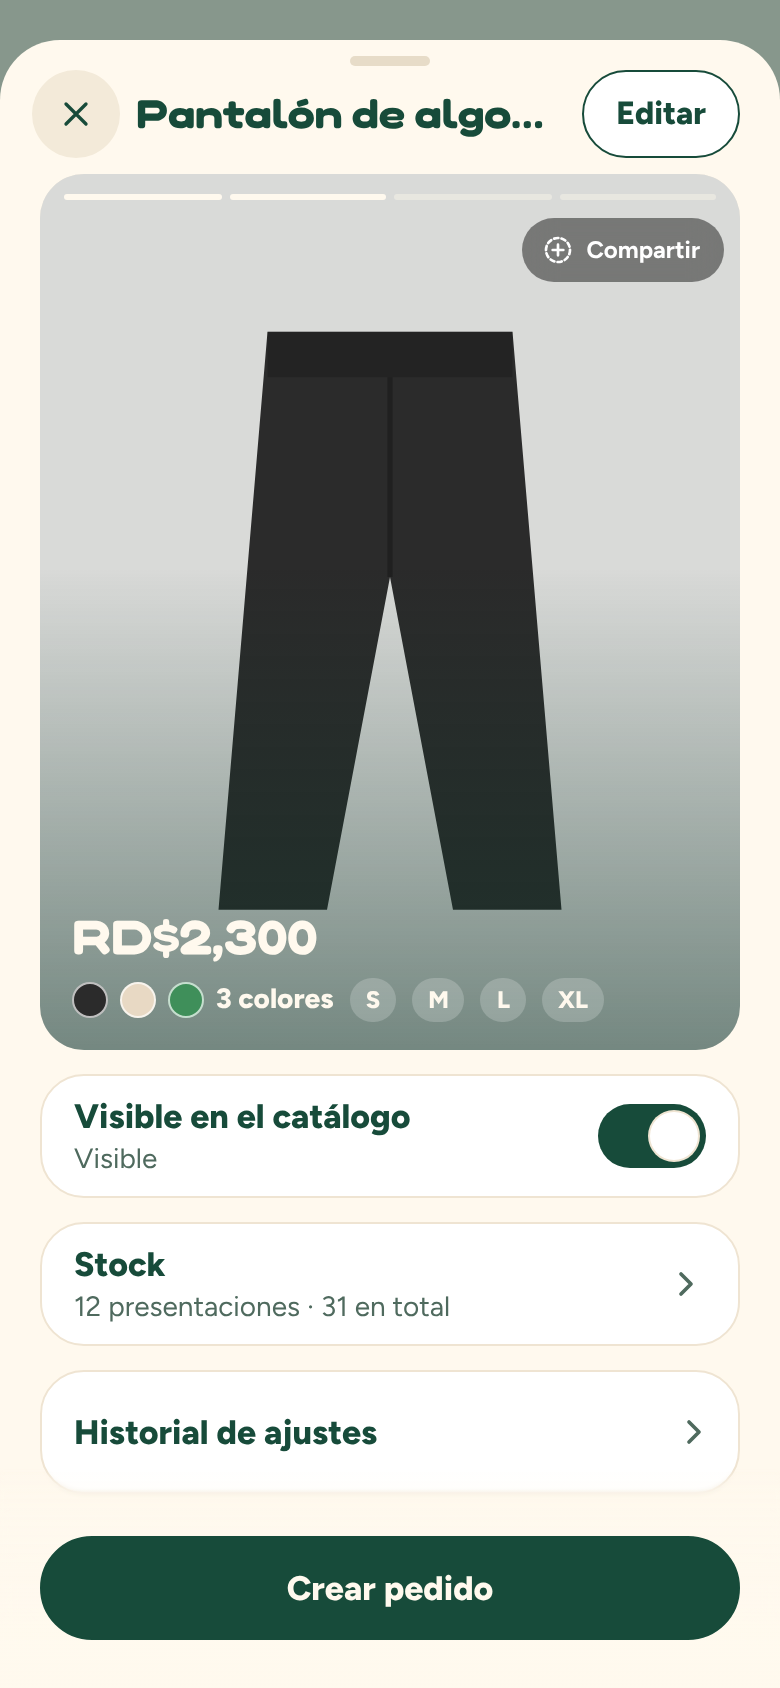
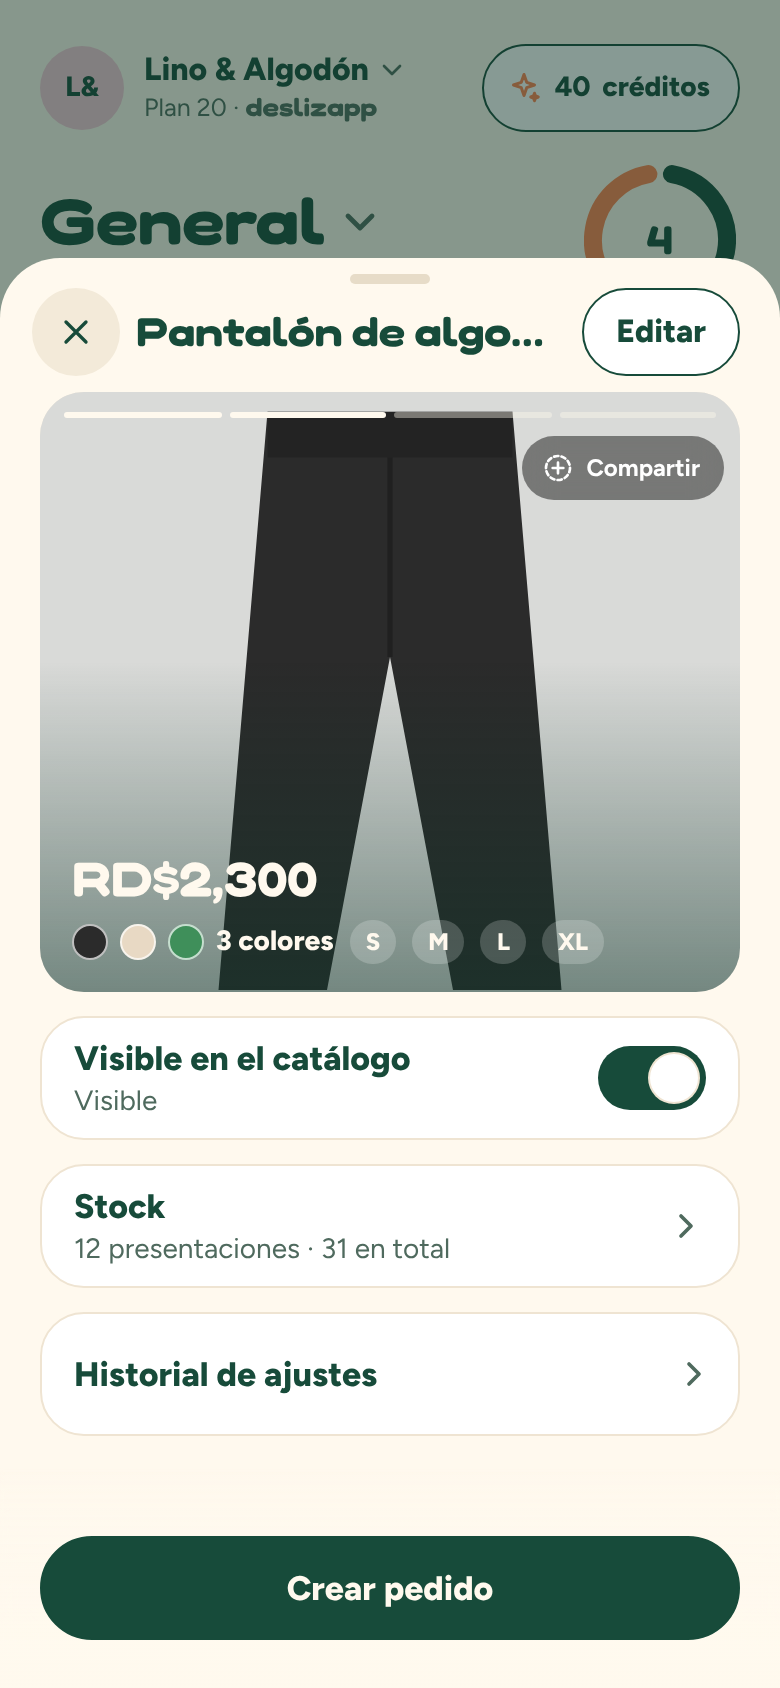
Ver producto: no se cierra mientras guarda, «Descartar» limpia el error y la foto vuelve a 300 px (#126)
* Ver producto: descartar quita el aviso de un ajuste fallido

Revisión de Codex en #125 (cedbb78): tras un ajuste de presentación fallido,
«Descartar» limpia también el error, como ya hace el stock sin presentaciones.

Claude-Session: https://claude.ai/code/session_01MrEaaa6uvSff6aYZRPm6oj

* Ver producto: la vista previa vuelve a 300 px

Lewis cambió de idea: en 4:5 ocupaba demasiado. Revierte 2770dda (la foto, sus
comprobaciones en probar-hoja-producto, docs/04 y las capturas); «Editar»
secundario se queda.

Claude-Session: https://claude.ai/code/session_01MrEaaa6uvSff6aYZRPm6oj

* Ver producto: no se cierra mientras se guarda el stock

Hallazgo de Codex en #125 (46266c2), aprobado por Lewis: nueva prop opt-in
bloquearCierre en Hoja (y useBloquearCierre para el contenido). Mientras se
guarda el stock, Ver producto y sus hojas de motivo no se cierran ni preguntan
con la ✕, el atrás, el fondo, deslizar ni Escape; al deslizar, la hoja rebota.
Documentado en docs/09 §9 y docs/04.

Claude-Session: https://claude.ai/code/session_01MrEaaa6uvSff6aYZRPm6oj

---------

diff --git a/components/hoja.tsx b/components/hoja.tsx
@@ -110,7 +110,7 @@ function liberarFondo() {
 /** Marca de la entrada de historial de una hoja apilada. Conserva el estado de Next (`__NA`…) para no confundir al router. */
 const estadoDeHoja = () => ({ ...(window.history.state ?? {}), deslizappHoja: true });
 
-type Ranuras = { arriba: HTMLDivElement | null; abajo: HTMLDivElement | null; irArriba: () => void; avisar: (cambios: boolean, textos?: TextosAviso) => void; confirmarSalida: (accion: () => void) => void };
+type Ranuras = { arriba: HTMLDivElement | null; abajo: HTMLDivElement | null; irArriba: () => void; avisar: (cambios: boolean, textos?: TextosAviso) => void; bloquear: (bloqueada: boolean) => void; confirmarSalida: (accion: () => void) => void };
 /** Textos del aviso que puede poner el contenido de la hoja (lo que solo él sabe: cuántas fotos o presentaciones se pierden). */
 export type TextosAviso = { titulo?: string; texto?: string };
 const ContextoHoja = createContext<Ranuras | null>(null);
@@ -162,6 +162,18 @@ export function useAvisarAlSalir(cambios: boolean, textos?: TextosAviso) {
     avisar?.(cambios, { titulo, texto });
     return () => avisar?.(false);
   }, [avisar, cambios, titulo, texto]);
+}
+
+/**
+ * El contenido de una hoja impide cerrarla mientras `bloqueada` sea true (ej. mientras se guarda): ✕, atrás, fondo, deslizar y
+ * Escape no cierran ni preguntan; al deslizar, la hoja rebota a su lugar. Opt-in, como `bloquearCierre`.
+ */
+export function useBloquearCierre(bloqueada: boolean) {
+  const bloquear = useContext(ContextoHoja)?.bloquear;
+  useEffect(() => {
+    bloquear?.(bloqueada);
+    return () => bloquear?.(false);
+  }, [bloquear, bloqueada]);
 }
 
 /** Reutiliza el aviso de cambios sin guardar antes de salir hacia otro formulario. */
@@ -221,6 +233,8 @@ type Props = {
   decoracionEncima?: ReactNode;
   /** Hay cambios sin guardar: cerrar pide confirmación (ver el comentario de arriba). También se puede avisar con `useAvisarAlSalir`. */
   avisarAlSalir?: boolean;
+  /** Mientras sea true, la hoja no se cierra (ni pregunta): ✕, atrás, fondo, deslizar y Escape no hacen nada. También con `useBloquearCierre`. */
+  bloquearCierre?: boolean;
   /** Hojas de ruta que consumen su entrada antes de navegar mediante alSalir. */
   protegerAtras?: boolean;
   /** Regresa a una vista interna sin cerrar ni descartar el borrador; true consume Atrás. */
@@ -315,6 +329,7 @@ function HojaMontada({
   decoracionAbajo,
   decoracionEncima,
   avisarAlSalir = false,
+  bloquearCierre = false,
   protegerAtras = false,
   alVolverInterno,
   avisoTitulo = "¿Salir sin guardar?",
@@ -347,6 +362,15 @@ function HojaMontada({
   const avisar = useCallback((cambios: boolean, textos?: TextosAviso) => {
     avisoDeHijo.current = cambios;
     textosDeHijo.current = cambios ? (textos ?? {}) : {};
+  }, []);
+  // Cierre bloqueado (ej. mientras se guarda): lo pide la prop o el contenido (`useBloquearCierre`); se lee al cerrar.
+  const bloqueoDeProp = useRef(bloquearCierre);
+  const bloqueoDeHijo = useRef(false);
+  useEffect(() => {
+    bloqueoDeProp.current = bloquearCierre;
+  }, [bloquearCierre]);
+  const bloquear = useCallback((bloqueada: boolean) => {
+    bloqueoDeHijo.current = bloqueada;
   }, []);
   const miTurno = useRef(Symbol("hoja"));
   const entradaDeHistorial = useRef(false);
@@ -499,6 +523,11 @@ function HojaMontada({
       rebotar();
       return false;
     }
+    // Cierre bloqueado (se está guardando): no cierra ni pregunta; si se llegó deslizando, vuelve a su lugar.
+    if (bloqueoDeProp.current || bloqueoDeHijo.current) {
+      rebotar();
+      return false;
+    }
     accionAlSalir.current = null;
     if (avisoDeProp.current || avisoDeHijo.current) {
       rebotar();
@@ -559,7 +588,7 @@ function HojaMontada({
   const irArriba = useCallback(() => {
     if (contenido.current) contenido.current.scrollTop = 0;
   }, []);
-  const ranuras = useMemo<Ranuras>(() => ({ arriba: ranuraArriba, abajo: ranuraAbajo, irArriba, avisar, confirmarSalida }), [ranuraArriba, ranuraAbajo, irArriba, avisar, confirmarSalida]);
+  const ranuras = useMemo<Ranuras>(() => ({ arriba: ranuraArriba, abajo: ranuraAbajo, irArriba, avisar, bloquear, confirmarSalida }), [ranuraArriba, ranuraAbajo, irArriba, avisar, bloquear, confirmarSalida]);
 
   /** Borde de desplazamiento: invisible arriba del todo, completo a los SCROLL_BORDE px. */
   const alDesplazar = () => {

diff --git a/components/catalogo/hoja-producto.tsx b/components/catalogo/hoja-producto.tsx
@@ -12,7 +12,7 @@ import { textoCombinacion } from "@/lib/presentaciones";
 import type { MotivoAjusteInventario, Producto, Variante } from "@/lib/types";
 import { ListaEsperaProducto } from "./hoja-espera";
 import { Foto } from "../foto";
-import { Hoja, HojaFijoAbajo, PieFlotante, useAvisarAlSalir, useConfirmarSalida } from "../hoja";
+import { Hoja, HojaFijoAbajo, PieFlotante, useAvisarAlSalir, useBloquearCierre, useConfirmarSalida } from "../hoja";
 import { useToast } from "../toast";
 import { usePanelUI } from "../panel/ui";
 import { CuerpoConError, CuerpoCargando } from "../hoja-estado";
@@ -198,7 +198,7 @@ function useStockPresentaciones(producto: Producto) {
       setGuardando(false);
     }
   };
-  return { activas, valor, pendiente: cambiadas.length > 0, bajan, guardando, error, poner: (id: string, n: number) => setPropuesta((p) => ({ ...p, [id]: n })), descartar: () => setPropuesta({}), guardar };
+  return { activas, valor, pendiente: cambiadas.length > 0, bajan, guardando, error, poner: (id: string, n: number) => setPropuesta((p) => ({ ...p, [id]: n })), descartar: () => { setPropuesta({}); setError(null); }, guardar };
 }
 
 function ContenidoVistaProducto({ producto, precio, promos, productos, cargandoProductos, alNavegar, alVerHistorial, alVerEspera, ranuraEditar, internaAbierta }: {
@@ -238,6 +238,8 @@ function ContenidoVistaProducto({ producto, precio, promos, productos, cargandoP
   const pendiente = inventario.pendiente || variantes.pendiente;
   const guardandoStock = inventario.guardando || variantes.guardando;
   useAvisarAlSalir(pendiente || inventario.incierto);
+  // Mientras se guarda el stock la hoja no se cierra (Lewis, 13 oct): el ajuste en camino entraría después de «descartar».
+  useBloquearCierre(guardandoStock);
   const confirmarSalida = useConfirmarSalida();
   const navegar = (ruta: string) => confirmarSalida(() => alNavegar(ruta));
   // El stock siempre empieza cerrado (Lewis, 13 oct): no se recuerda el último estado.
@@ -399,7 +401,7 @@ function VistaPrevia({ producto, precio, alCompartir }: { producto: Producto; pr
   const otras = producto.opciones.filter((o) => !esEjeColor(o.nombre));
   const conFoto = fotos.length > 0;
   return (
-    <div className="relative aspect-[4/5] w-full shrink-0 overflow-hidden rounded-radio-l bg-superficie-hundida" data-vista-previa-producto="">
+    <div className="relative h-[300px] w-full shrink-0 overflow-hidden rounded-radio-l bg-superficie-hundida" data-vista-previa-producto="">
       {conFoto ? (
         <div
           className="flex size-full snap-x snap-mandatory overflow-x-auto overscroll-x-contain [scrollbar-width:none] [&::-webkit-scrollbar]:hidden"

diff --git a/components/catalogo/inventario-producto.tsx b/components/catalogo/inventario-producto.tsx
@@ -137,7 +137,7 @@ export function useHistorialInventario() {
 
 export function ConfirmacionInventario({ inventario }: { inventario: Borrador }) {
   const i = inventario;
-  return <Hoja abierta={i.confirmar} alCerrar={i.cerrarConfirmacion} alSalir={i.alSalirConfirmacion} titulo="Ajustar inventario" altura="grande">
+  return <Hoja abierta={i.confirmar} alCerrar={i.cerrarConfirmacion} alSalir={i.alSalirConfirmacion} titulo="Ajustar inventario" altura="grande" bloquearCierre={i.guardando}>
     <div className="flex flex-col gap-4 text-bosque">
       <div><h2 className="font-display text-[23px]">¿Por qué baja el stock?</h2><p className="mt-1 text-sm text-suave">Retirarás {(i.base ?? 0) - (i.propuesta ?? 0)} {(i.base ?? 0) - (i.propuesta ?? 0) === 1 ? "unidad" : "unidades"}. Se guardará como ajuste, no como venta.</p></div>
       <GrupoOpciones etiqueta="Motivo del ajuste">{(["dano","perdida","correccion_inventario","otro"] as const).map(m => <Chip key={m} elegido={i.motivo === m} tono="opcion" onClick={() => i.setMotivo(m)}>{MOTIVOS_INVENTARIO[m]}</Chip>)}</GrupoOpciones>

diff --git a/components/catalogo/ficha-presentaciones.tsx b/components/catalogo/ficha-presentaciones.tsx
@@ -32,7 +32,7 @@ export function HojaMotivoVariantes({
   const [nota, setNota] = useState("");
   const listo = motivo !== null && (motivo !== "otro" || nota.trim().length > 0);
   return (
-    <Hoja abierta={abierta} alCerrar={alCerrar} titulo="¿Por qué baja el stock?" altura="grande">
+    <Hoja abierta={abierta} alCerrar={alCerrar} titulo="¿Por qué baja el stock?" altura="grande" bloquearCierre={guardando}>
       <div className="flex flex-col gap-4">
         <p className="text-secundario text-texto-secundario">
           Retirarás {unidades} {unidades === 1 ? "unidad" : "unidades"}. Se guarda como ajuste, no como venta.

diff --git a/docs/04-pantallas.md b/docs/04-pantallas.md
@@ -248,7 +248,7 @@ en el prototipo); precios de producto, cantidades y nombres, en Figtree.
 
 **Acciones:**
 - Tocar "+ Producto" → crear producto (la historia, ver «Crear producto (historia)»).
-- Tocar una tarjeta → **«Ver producto»** (`HojaVistaProducto`, 13 oct 2026, referencia `referencias/editar-producto/Vista-A.dc.html`): altura según su contenido. Cabecera: ✕ a la izquierda, el nombre (elipsis) y **«Editar»** como botón **Secundario** (contorno 1.5 px `accion`, relleno `superficie`, texto `accion`, 44 px; apagado en sólido sin permiso o mientras se guarda el stock; pasa por el aviso de cambios sin guardar y lleva a `/catalogo/[id]/editar`, que sustituye a esta hoja). Vista previa grande en la proporción de los posts del feed del catálogo (**4:5**, a todo el ancho; las fotos en `cover`) con **todas las fotos** (carrusel deslizable con las barras tipo historia; la de la foto que se ve, llena) y, sobre un degradado, el precio (con la promo tachada), «Agotado» y las presentaciones (colores como puntos, tallas como pastillas); sin foto, la inicial. Arriba a la derecha de la foto, bajo las barras, la píldora de vidrio **«Compartir»** abre «Súbelo a tu estado» (`HojaHistoria`). Si hay lista de espera, la franja «N personas lo esperan» (abre la lista como pantalla interna). Debajo: Visible en el catálogo → **Stock plegable** (empieza **siempre cerrado**; abierto, − / + por presentación hasta 3, uno solo sin presentaciones; con más de 3, abrirlo lleva al Inventario de editar, `?abrir=stock`) → Historial de ajustes (pantalla interna con «‹»). Al abrir el stock la hoja crece al instante (sin animar la altura). Pie: solo **«Crear pedido»** a todo el ancho; con stock sin guardar, «Descartar» y «Guardar cambios».
+- Tocar una tarjeta → **«Ver producto»** (`HojaVistaProducto`, 13 oct 2026, referencia `referencias/editar-producto/Vista-A.dc.html`): altura según su contenido. Cabecera: ✕ a la izquierda, el nombre (elipsis) y **«Editar»** como botón **Secundario** (contorno 1.5 px `accion`, relleno `superficie`, texto `accion`, 44 px; apagado en sólido sin permiso o mientras se guarda el stock; pasa por el aviso de cambios sin guardar y lleva a `/catalogo/[id]/editar`, que sustituye a esta hoja). Vista previa grande con **todas las fotos** (carrusel deslizable con las barras tipo historia; la de la foto que se ve, llena) y, sobre un degradado, el precio (con la promo tachada), «Agotado» y las presentaciones (colores como puntos, tallas como pastillas); sin foto, la inicial. Arriba a la derecha de la foto, bajo las barras, la píldora de vidrio **«Compartir»** abre «Súbelo a tu estado» (`HojaHistoria`). Si hay lista de espera, la franja «N personas lo esperan» (abre la lista como pantalla interna). Debajo: Visible en el catálogo → **Stock plegable** (empieza **siempre cerrado**; abierto, − / + por presentación hasta 3, uno solo sin presentaciones; con más de 3, abrirlo lleva al Inventario de editar, `?abrir=stock`) → Historial de ajustes (pantalla interna con «‹»). Al abrir el stock la hoja crece al instante (sin animar la altura). Pie: solo **«Crear pedido»** a todo el ancho; con stock sin guardar, «Descartar» y «Guardar cambios». Mientras se guarda el stock, la hoja (y la de su motivo) no se cierra con la ✕, el atrás, el fondo, deslizar ni Escape.
 - «Crear pedido» abre el formulario manual existente con ese producto y una unidad preseleccionados si hay stock. El pedido no se guarda ni descuenta stock hasta completar el flujo; al crearlo queda «Por despachar» y el inventario baja una sola vez al despacharlo. Cancelar un pedido por despachar no toca el stock; deshacer un despacho devuelve las unidades.
 - Todo producto lleva su cantidad (9 oct 2026): la interfaz ya no ofrece «No llevo la cuenta». La base sigue aceptando `stock = null` (sin migración; hoy 0 de 17 productos lo usan): si un producto viejo lo trae, se muestra como 0 con el aviso «Sin cantidad guardada», sin botones de ajuste (el ajuste atómico necesita una cantidad de base). «Se puede pedir aunque no haya» lo cubre «Por encargo».
 - En «Ver producto», +/− del stock plegable modifica una propuesta, nunca guarda ni baja de cero; el pie dice «Añadirás 1 unidad» / «Retirarás N unidades» y cambia a «Descartar» + «Guardar cambios». En editar, el stock es una fila que abre su pantalla (ver «Editar producto (resumen)»); «Guardar cambios» confirma ficha y ajuste juntos.

diff --git a/docs/09-sistema-de-diseno.md b/docs/09-sistema-de-diseno.md
@@ -221,7 +221,9 @@ Nunca una hoja completa con un hueco vacío abajo si no tiene teclado.
 
 **Pantalla interna y `anidarHojas`** (máximo dos hojas): una hoja con la prop `anidarHojas` (opt-in: hoy solo las hojas de un paso de editar y el flujo de presentaciones) no deja abrir una tercera: toda `Hoja` que se abra dentro de su contenido se pinta en su lugar como **pantalla interna**. La cabecera muestra «‹» en lugar de la ✕ y el título de esa pantalla; el atrás del teléfono y Escape vuelven a la anterior; al volver se recuperan el desplazamiento y el foco del botón que la abrió. Sin animación ni remontar nada: el contenido de abajo queda montado y oculto, y el foco va a «‹» (un botón, no abre teclado). Con `historia.volver`, una hoja también muestra «‹» para sus propias pantallas internas (historial de ajustes, lista de espera). Las demás hojas no cambian.
 
-**Cabecera con acción** (Ver producto): `historia` con `tituloElipsis` (el nombre se corta con elipsis) y, a la derecha, una píldora de texto («Editar», 44 px, mismo fondo que la ✕).
+**Cabecera con acción** (Ver producto): `historia` con `tituloElipsis` (el nombre se corta con elipsis) y, a la derecha, el botón **Secundario** («Editar», 44 px: contorno 1.5 px `accion`, relleno `superficie`).
+
+**Cierre bloqueado (`bloquearCierre` / `useBloquearCierre`)**, opt-in (13 oct 2026): mientras se guarda algo que no se puede deshacer (el stock en Ver producto y sus hojas de motivo), la hoja no se cierra ni pregunta: la ✕, el atrás del teléfono, tocar el fondo, deslizar y Escape no hacen nada; si se deslizó, la hoja rebota a su lugar. Las pantallas internas siguen volviendo. Al terminar de guardar, todo vuelve a funcionar. Las demás hojas no cambian.
 
 Una hoja sobre otra es válida (máximo dos), y solo la de arriba responde a gestos. Si hay cambios sin guardar, cerrar pide confirmación con la alerta "¿Salir sin guardar?" y los botones **«Quedarme»** (principal) y **«Descartar y salir»** (terciario, tono peligro).
 
